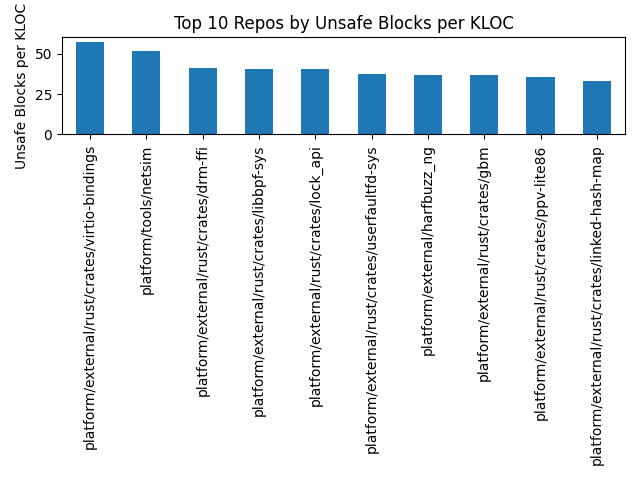
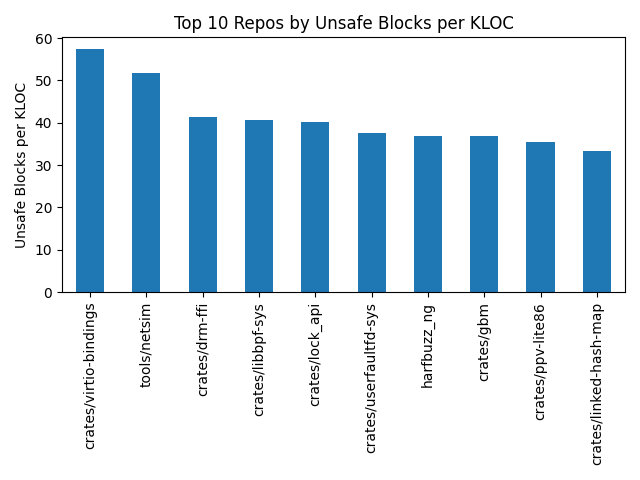
Figure renaming

diff --git a/analyzer/results.py b/analyzer/results.py
@@ -43,17 +43,31 @@ plt.close()
 top_unsafe_raw = df['unsafe_count'].sort_values(ascending=False).head(10)
 top_unsafe_norm = (df['unsafe_count'] / df['total_lines'] * 1000).sort_values(ascending=False).head(10)
 
-top_unsafe_raw.plot(kind='bar', title='Top 10 Repos by Unsafe Block Count')
+# Clean labels for plotting
+def clean_label(label):
+    parts = label.split('/')
+    to_strip = {'platform', 'external', 'rust'}
+    while parts and parts[0] in to_strip:
+        parts.pop(0)
+    return '/'.join(parts)
+
+clean_index = df.index.map(clean_label)
+rename_map = dict(zip(df.index, clean_index))
+
+# Plot raw unsafe count
+top_unsafe_raw.rename(index=rename_map).plot(kind='bar', title='Top 10 Repos by Unsafe Block Count')
 plt.ylabel('Unsafe Block Count')
 plt.tight_layout()
 plt.savefig("top10_unsafe_repos_raw.png")
 plt.close()
 
-top_unsafe_norm.plot(kind='bar', title='Top 10 Repos by Unsafe Blocks per KLOC')
+# Plot normalized unsafe count
+top_unsafe_norm.rename(index=rename_map).plot(kind='bar', title='Top 10 Repos by Unsafe Blocks per KLOC')
 plt.ylabel('Unsafe Blocks per KLOC')
 plt.tight_layout()
 plt.savefig("top10_unsafe_repos_per_kloc.png")
 plt.close()
+
 
 # --- PCA (2D) on selected numeric features ---
 
